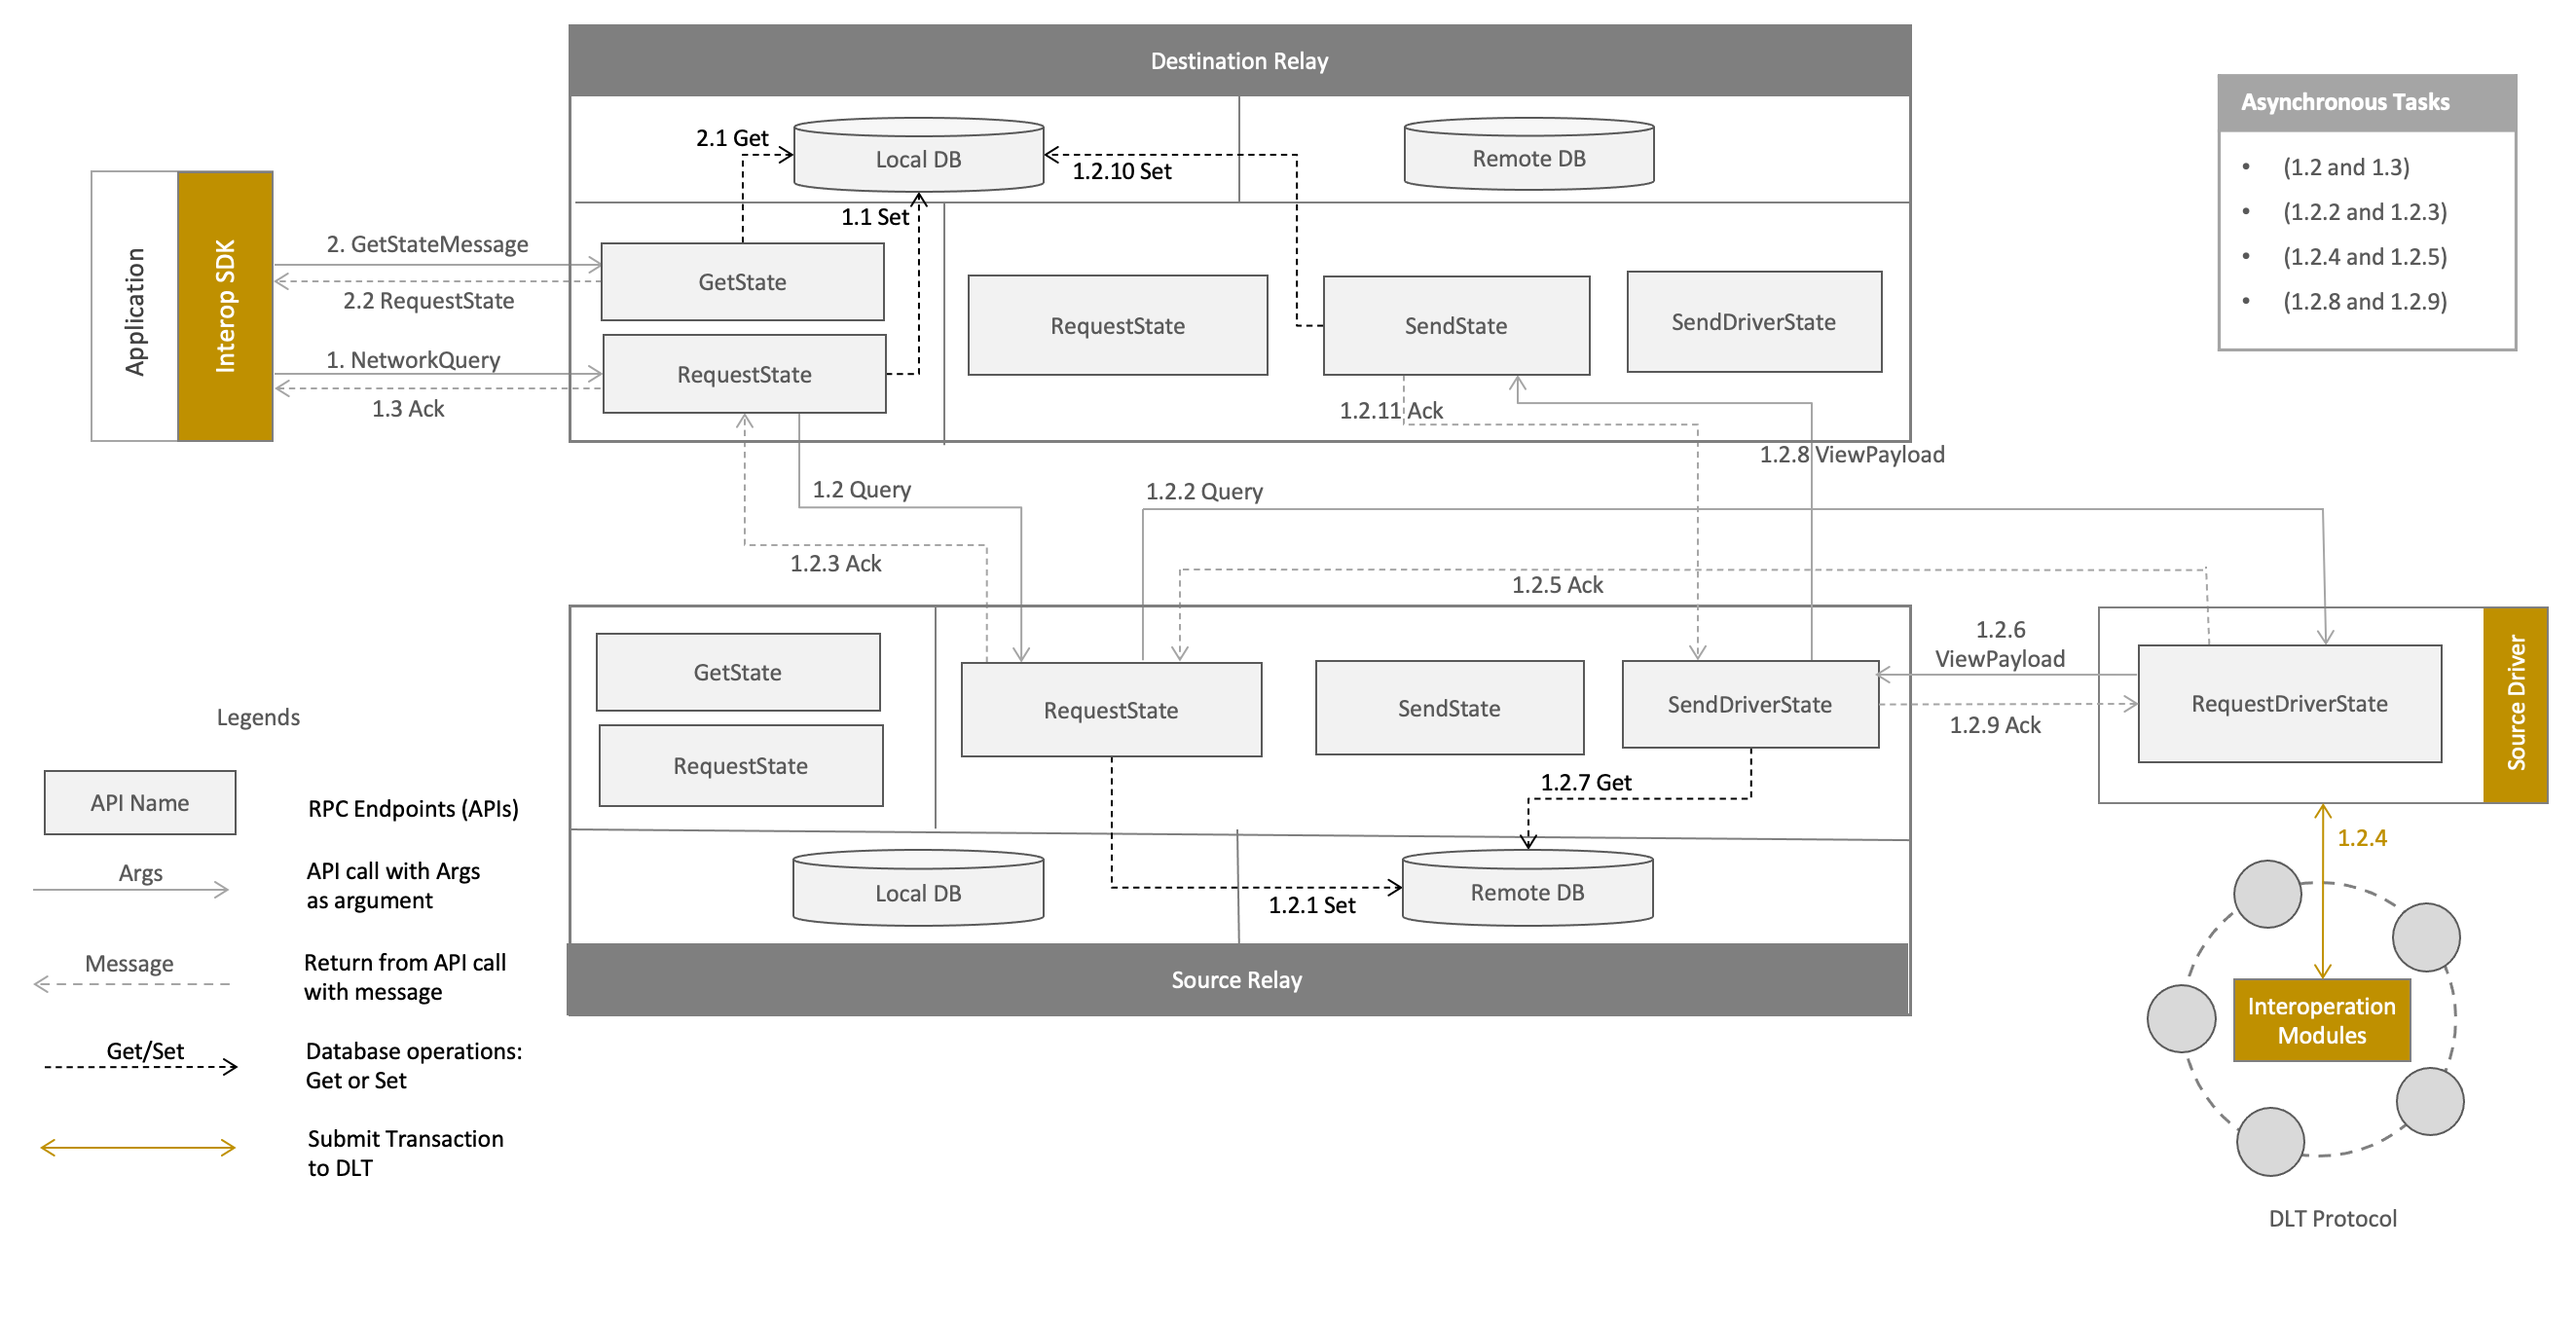
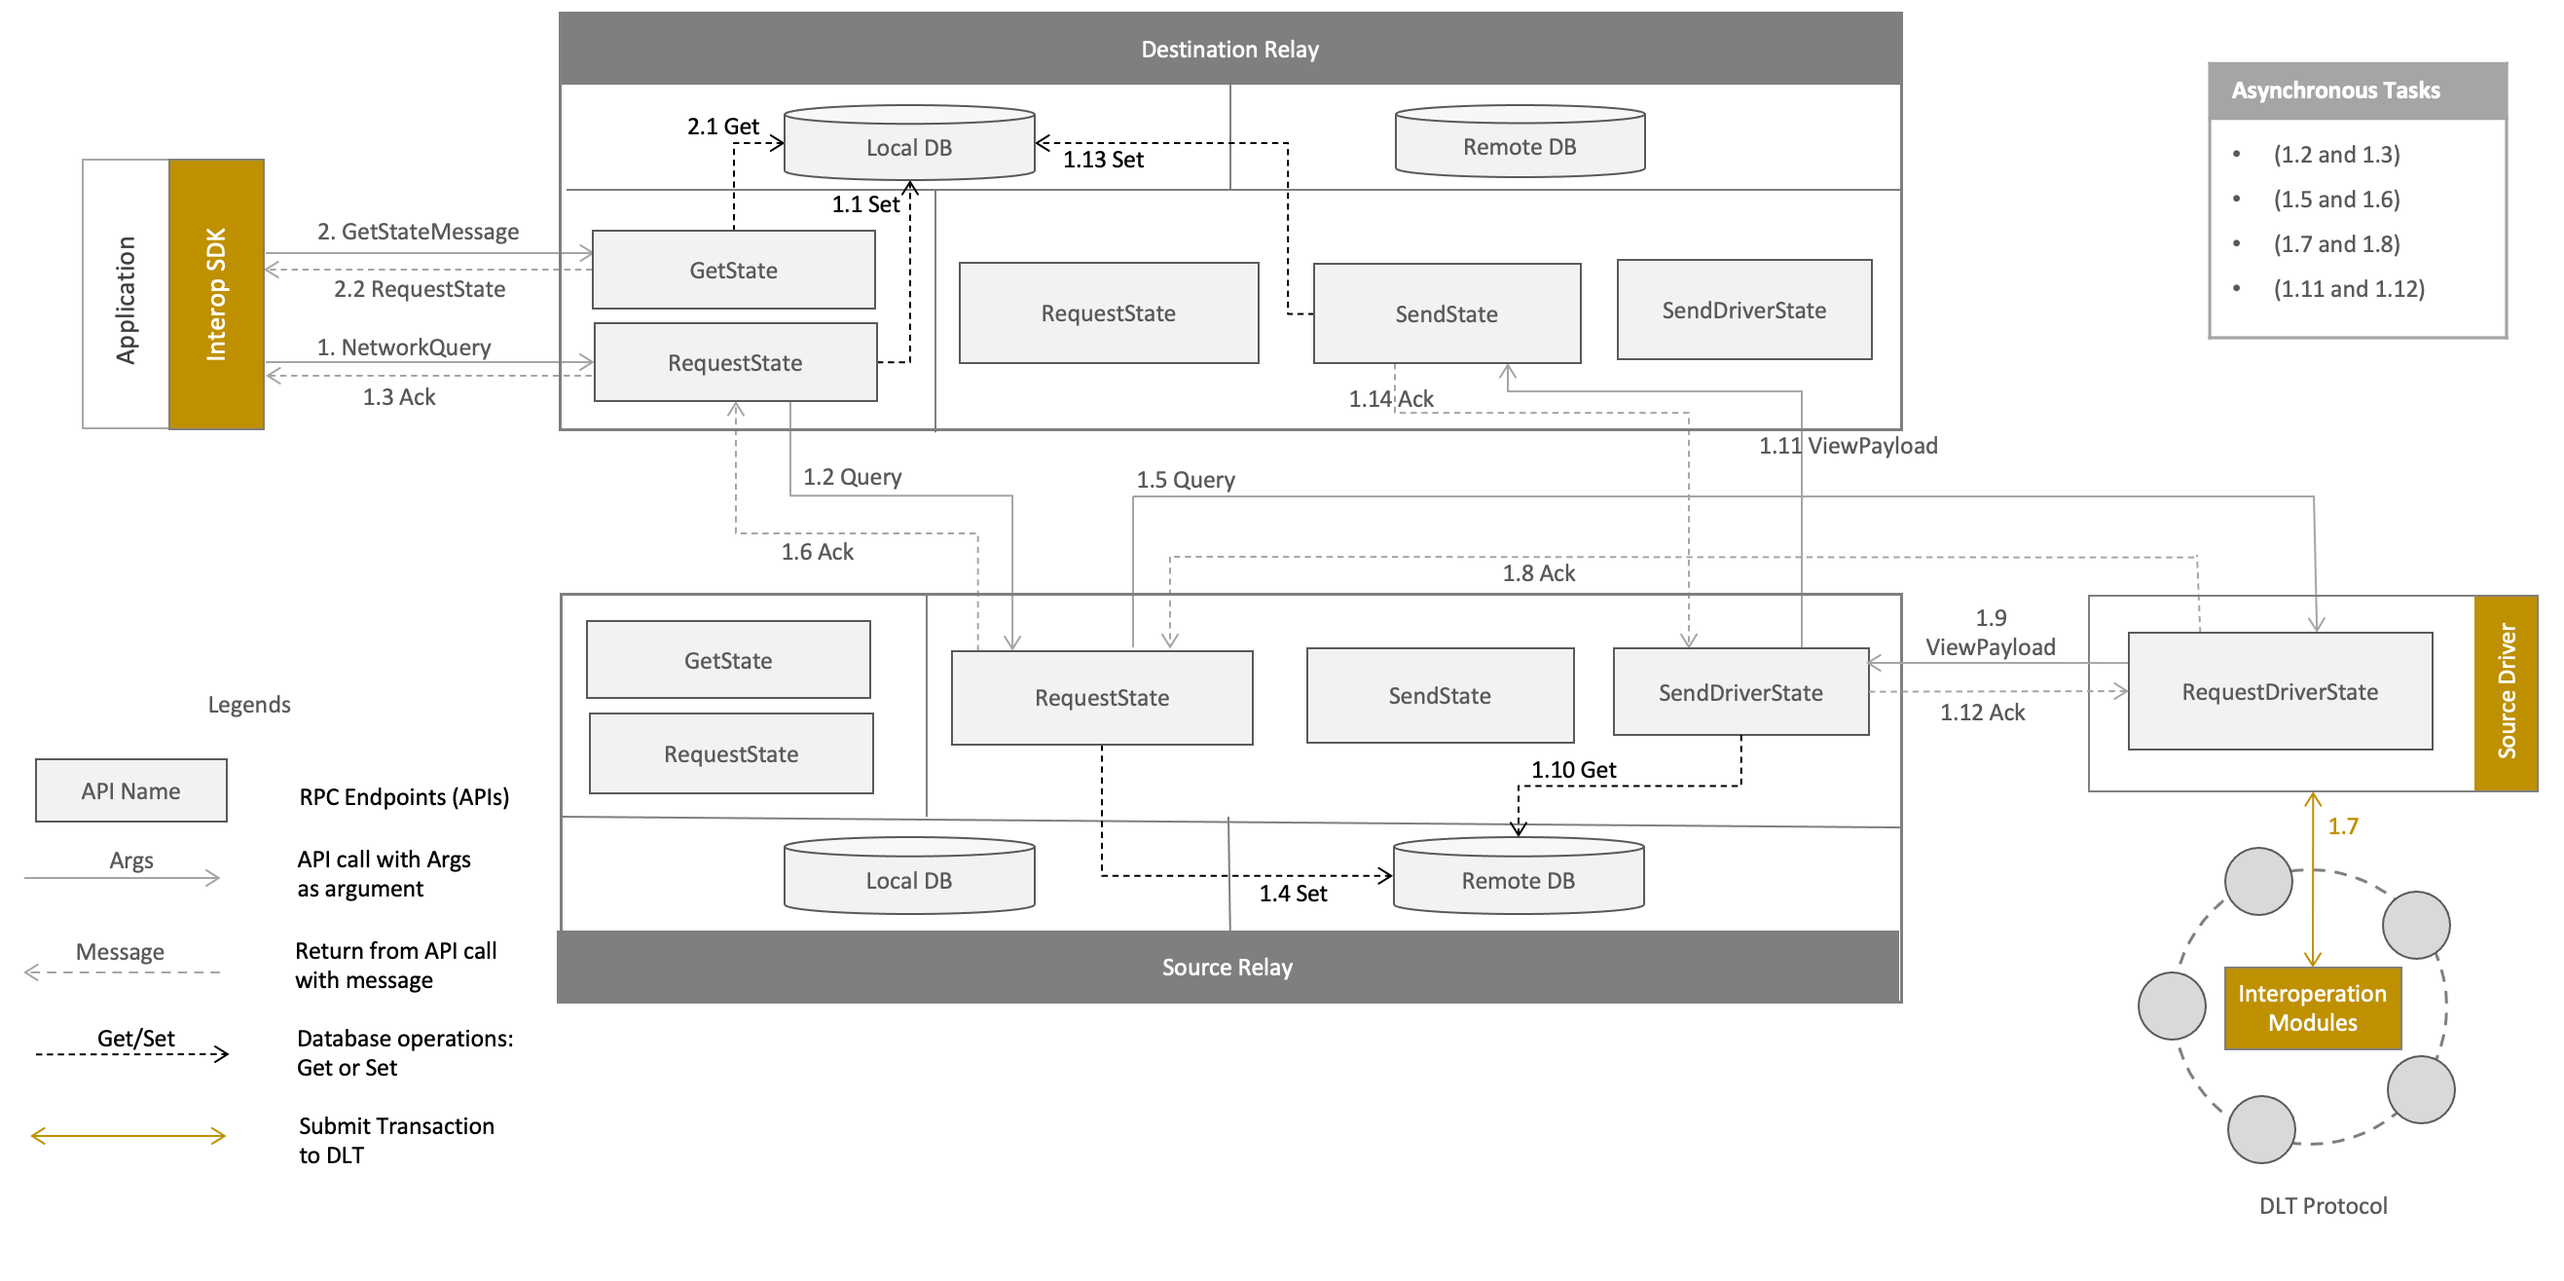
renumber steps in relay-flow

diff --git a/rfcs/protocols/data-sharing/generic.md b/rfcs/protocols/data-sharing/generic.md
@@ -54,17 +54,17 @@ The end-to-end flow is explained in figure above. The steps numbers from figure 
   * **1.1:** Destination relay (inside Client’s `RequestState`) generates unique `request_id` for the query and stores the `RequestState` message with current status as `PENDING_ACK` in local database at key `request_id`.
   * **1.2:** Destination relay (inside Client’s `RequestState`) prepares `Query` and spawns a thread to send the Query to source relay via `RequestState` (Relay Service) API. When destination relay will receive `Ack` from source relay, it will update the status of `RequestState` as `PENDING` in database at key `request_id`
   * **1.3:** Destination relay (inside Client’s `RequestState`) returns Ack to the client at the end of this API (happens asynchronously with step **1.2**).
-    * **1.2.1:** Source relay (inside Relay’s `RequestState`) upon receiving the `Query`, stores it in remote database at key `request_id`.
-    * **1.2.2:** Source relay (inside Relay’s `RequestState`) then spawns a thread to send `Query` to the intended driver based on Query via `RequestDriverState` API exposed by the driver.
-    * **1.2.3:** Source relay (inside Relay’s `RequestState`) returns `Ack` back to the destination relay (happens asynchronously with step **1.2.2**).
-    * **1.2.4:** Driver (inside `RequestDriverState`) based on `Query`, asynchronously spawns a thread that submits transaction to DLT network using [interoperation module](./interoperation-modules.md). The response payload from `interoperation module` is received by the driver, then it creates a `View` payload based on DLT platform (e.g. [Fabric View](../../formats/views/fabric.md), [Corda View](../../formats/views/corda.md) or [Besu View](../../formats/views/besu.md) ), and then encapsulate it to DLT-neutral [View](../../formats/views/definition.md) along with meta-data. 
-    * **1.2.5:** Driver returns `Ack` back to the source relay (happens asynchronously with step **1.2.4**).
-    * **1.2.6:** Driver (inside `RequestDriverState`) and then prepares and sends the `ViewPayload` to the source relay via `SendDriverState` API.
-    * **1.2.7:** Source relay (inside `SendDriverState`) then fetches the `Query` from remote database using `request_id` from `ViewPayload`.
-    * **1.2.8:** Source relay (inside `SendDriverState`) spawns a thread to send the `ViewPayload` back to the destination relay via `SendState` API.
-    * **1.2.9:** Source relay (inside `SendDriverState`) returns `Ack` back to the driver (happens asynchronously with step **1.2.9**).
-    * **1.2.10:** Destination relay (inside `SendState`) stores the `RequestState` message with updated `state` (storing view) and `status` as `COMPLETED`, in the local database at key `request_id`.
-    * **1.2.11:** Destination relay (inside `SendState`) returns `Ack` back to the source relay.
+  * **1.4:** Source relay (inside Relay’s `RequestState`) upon receiving the `Query`, stores it in remote database at key `request_id`.
+  * **1.5:** Source relay (inside Relay’s `RequestState`) then spawns a thread to send `Query` to the intended driver based on Query via `RequestDriverState` API exposed by the driver.
+  * **1.6:** Source relay (inside Relay’s `RequestState`) returns `Ack` back to the destination relay (happens asynchronously with step **1.2.2**).
+  * **1.7:** Driver (inside `RequestDriverState`) based on `Query`, asynchronously spawns a thread that submits transaction to DLT network using [interoperation module](./interoperation-modules.md). The response payload from `interoperation module` is received by the driver, then it creates a `View` payload based on DLT platform (e.g. [Fabric View](../../formats/views/fabric.md), [Corda View](../../formats/views/corda.md) or [Besu View](../../formats/views/besu.md) ), and then encapsulate it to DLT-neutral [View](../../formats/views/definition.md) along with meta-data. 
+  * **1.8:** Driver returns `Ack` back to the source relay (happens asynchronously with step **1.2.4**).
+  * **1.9:** Driver (inside `RequestDriverState`) and then prepares and sends the `ViewPayload` to the source relay via `SendDriverState` API.
+  * **1.10:** Source relay (inside `SendDriverState`) then fetches the `Query` from remote database using `request_id` from `ViewPayload`.
+  * **1.11:** Source relay (inside `SendDriverState`) spawns a thread to send the `ViewPayload` back to the destination relay via `SendState` API.
+  * **1.12:** Source relay (inside `SendDriverState`) returns `Ack` back to the driver (happens asynchronously with step **1.2.9**).
+  * **1.13:** Destination relay (inside `SendState`) stores the `RequestState` message with updated `state` (storing view) and `status` as `COMPLETED`, in the local database at key `request_id`.
+  * **1.14:** Destination relay (inside `SendState`) returns `Ack` back to the source relay.
 2. Client polls for response from Destination Relay via `GetState` API, passing `GetStateMessage` containing `request_id`.
   * **2.1:** Destination relay fetches the `RequestState` message stored in local database at key `request_id`.
   * **2.2:** Destination relay returns the `RequestState` obtained in step **2.1** to the client.
